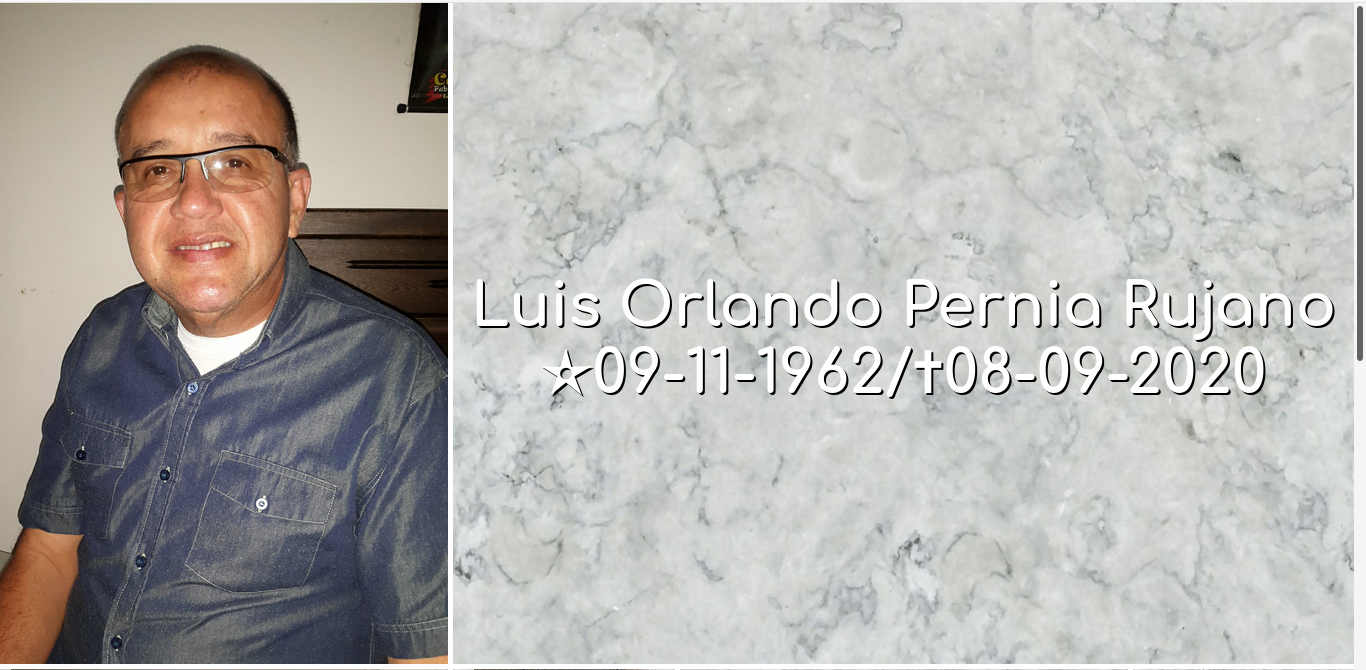
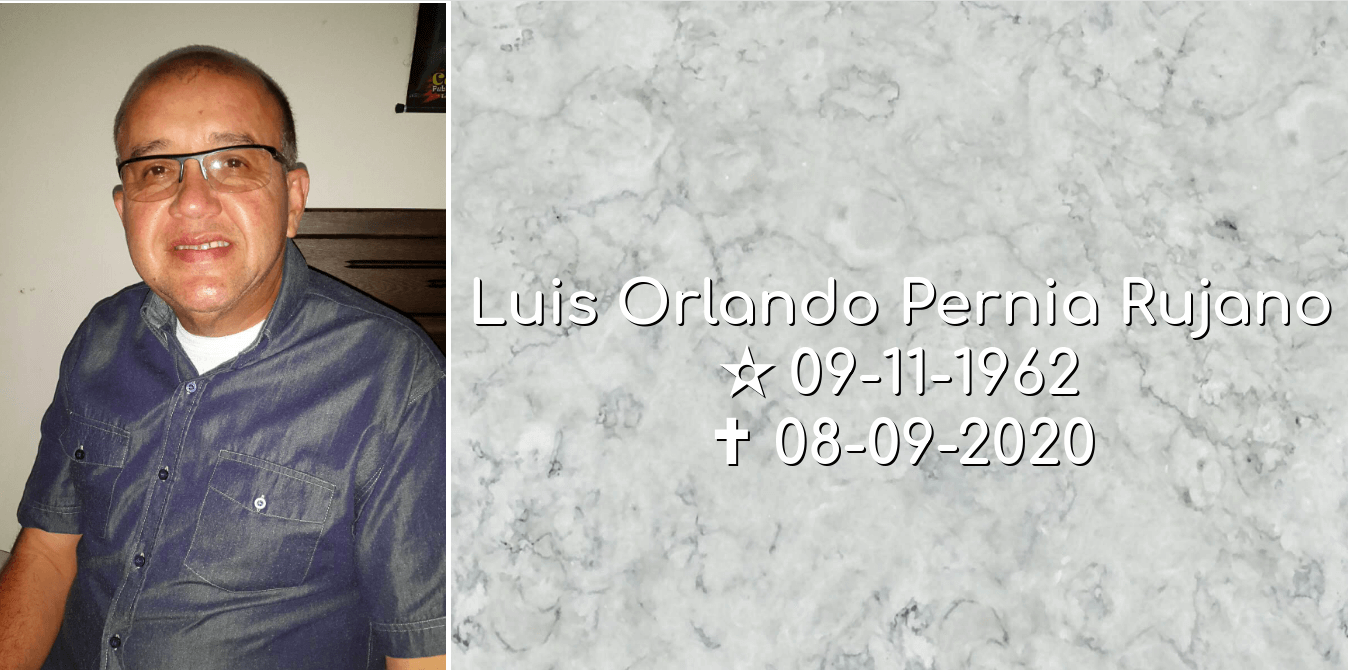
Cambios en index y hoja de estilo

diff --git a/index.html b/index.html
@@ -52,7 +52,7 @@ Icon(s) used are from:
         <div class="portfolio-button"><a href="#header"></a></div>
         <h1 id="portfolio-title-one">Portafolios: proyectos personales.</h1>
         <div class="portfolio"><a class="portfolio-links" href="https://njrzr.github.io/conversor-zp/" target="_blank" rel="noreferrer"><img src="images/thumb05.png" alt="personal project thumbnail">Conversor de divisas y criptomonedas</a></div>
-        <!--div class="portfolio"><a class="portfolio-links" href="https://njrzr.github.io/en-memoria-01/" target="_blank" rel="noreferrer"><img src="images/thumb06.png" alt="personal project thumbnail">En memoria: Luis Orlando Pernia Rujano</a></div-->
+        <div class="portfolio"><a class="portfolio-links" href="https://njrzr.github.io/en_memoria-luis_pernia/" target="_blank" rel="noreferrer"><img src="images/thumb06.png" alt="personal project thumbnail">En memoria: Luis Orlando Pernia Rujano</a></div>
         <div class="portfolio-button"><a href="#header"></a></div>
         <h1 id="portfolio-title-two">Portafolios: freeCodeCamp.</h1>
         <div class="portfolio"><a class="portfolio-links" href="https://codepen.io/NJRZR/full/jOqWedj" target="_blank" rel="noreferrer"><img src="images/thumb01.png" alt="project thumbnail">Página tributo</a></div>
@@ -63,9 +63,6 @@ Icon(s) used are from:
       </div>
 
       <footer id="footer">
-        <div id="contacts">
-          <!--a href="mailto:empresa.zeroplus@gmail.com" target="_blank" rel="noopener noreferrer">empresa.zeroplus@gmail.com</a-->
-        </div>
         <p id="copyright">&copy; 2020 ZERO+PLUS</p>
       </footer>
     </div>

diff --git a/css/site-style.css b/css/site-style.css
@@ -385,23 +385,6 @@ body {
   padding: 10px;
 }
 
-#contacts {
-  position: relative;
-  grid-area: 1/1/3/5;
-  font-size: .8em;
-  padding: 10px;
-}
-
-#contacts > a {
-  padding: 0 10px;
-  text-decoration: none;
-  color: #ffffff;
-}
-
-#contacts > a:hover {
-  background: #36454f;
-}
-
 #copyright {
   position: relative;
   grid-area: 2/5/3/6;
@@ -439,6 +422,15 @@ body {
     background-size: 120px;
     background-position: center;
     background-repeat: no-repeat;
+  }
+
+  .left-links {
+    width: 180px;
+  }
+
+  .link1::before, .link2::before, .link3::before {
+    width: 180px;
+    transform: scale(1, 1);
   }
 
   .right-links {
@@ -500,10 +492,6 @@ body {
 }
 
 @media screen and (max-width: 550px) {
-  .left-links:hover {
-    width: 95%;
-  }
-
   .left-links::before {
     font-size: .9em;
   }
